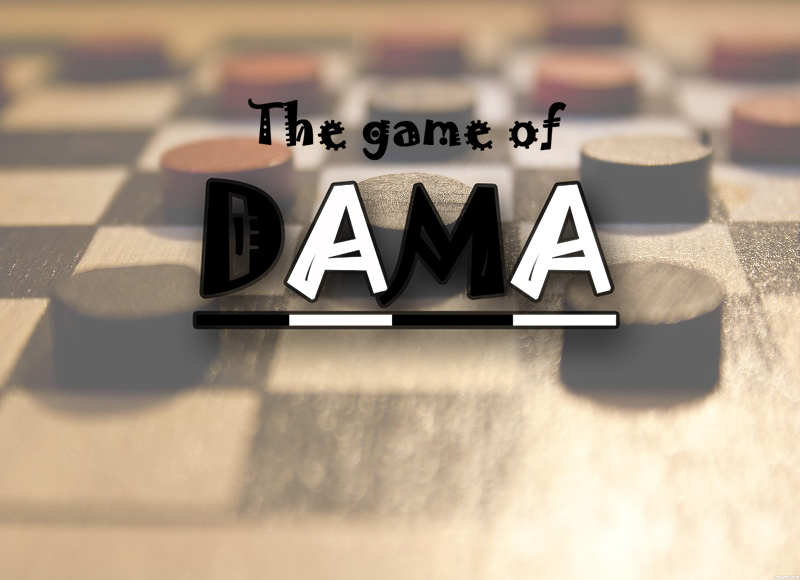
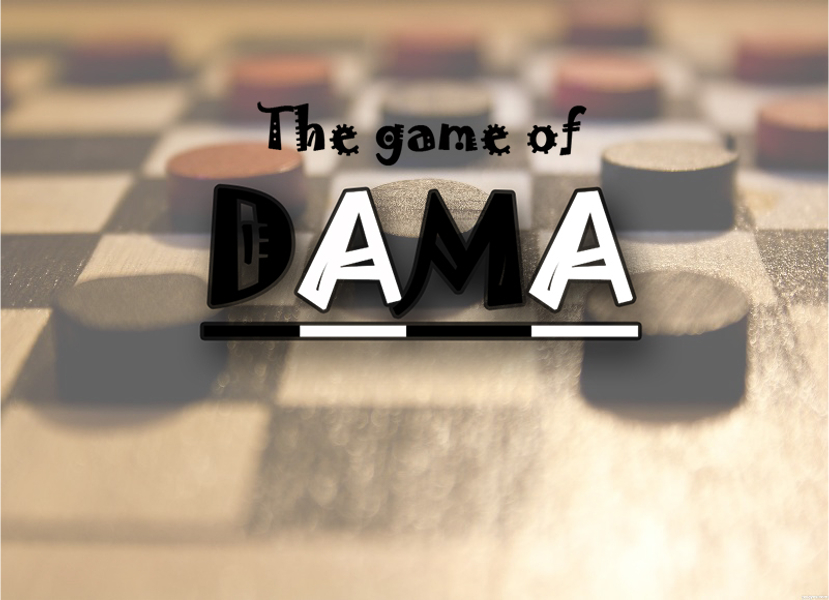
Aggiornate alcune cose tra cui: -Rimpiazzata immagine di sfondo con una a grandezza migliore -Aggiunta la possibilita' all'uscita di reimpostare la partita

Changed region(s): [[0.9375, 0.4034, 1.0, 0.4655], [0.6562, 0.2172, 0.6875, 0.2483], [0.375, 0.2172, 0.4062, 0.2483]]

diff --git a/Dama/src/Dama/Scacchiera.java b/Dama/src/Dama/Scacchiera.java
@@ -37,6 +37,7 @@ public class Scacchiera extends JFrame{
                 if(JOptionPane.showConfirmDialog(we.getWindow(), "Sei sicuro di voler uscire") == JOptionPane.OK_OPTION){
                     setVisible(false);
                     dispose();
+                    GameLogic.ReimpostaPartita();
                     MainFrame.Menu.setVisible(true);
                 }
             }
@@ -151,7 +152,6 @@ public class Scacchiera extends JFrame{
         
     }
     
-    
     public boolean isCasellaNera(Casella pCasella){
         if (pCasella.getColore().equals(Scacchiera.Colori.NERO)){
             return true;
@@ -164,7 +164,4 @@ public class Scacchiera extends JFrame{
         setVisible(pSet);
     }
     
-    public String toString(){
-        return Colori.BIANCO.toString();
-    }
 }

diff --git a/Dama/src/Dama/GameLogic.java b/Dama/src/Dama/GameLogic.java
@@ -643,6 +643,12 @@ public class GameLogic {
         }
     }
     
+    public static void ReimpostaPartita(){
+        Board = new Scacchiera();
+        Board.initScacchiera(player1, player2);
+        activePlayer = player1;
+    }
+    
     public static void setActivePlayer(Giocatore pactivePlayer) {
         activePlayer = pactivePlayer;
     }

diff --git a/Dama/src/Dama/Background.java b/Dama/src/Dama/Background.java
@@ -6,7 +6,7 @@ import util.Resources;
 
 public class Background extends JPanel {
     
-    private Image SfondoMenuNew;
+    private final Image SfondoMenuNew;
     
     public Background(String locazione_immagine) {
         this.setSize(800, 600);
